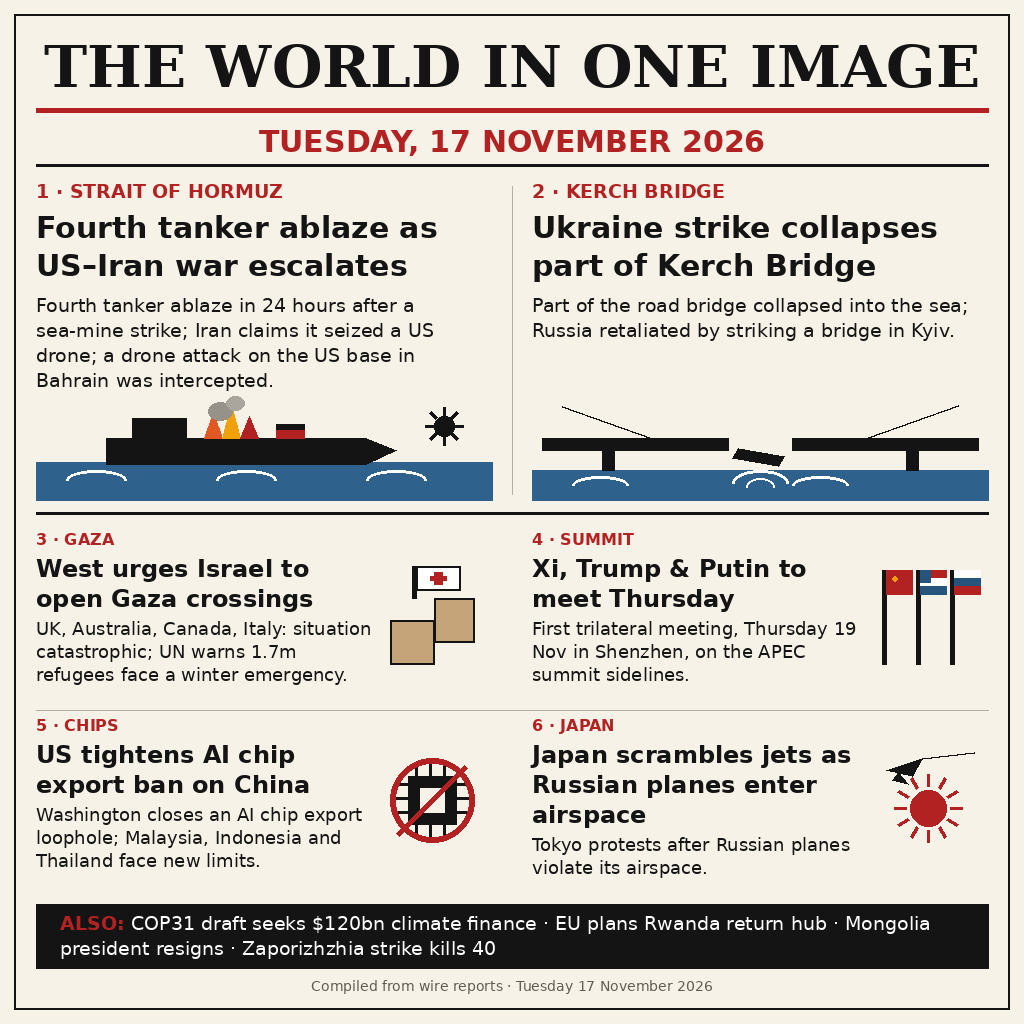
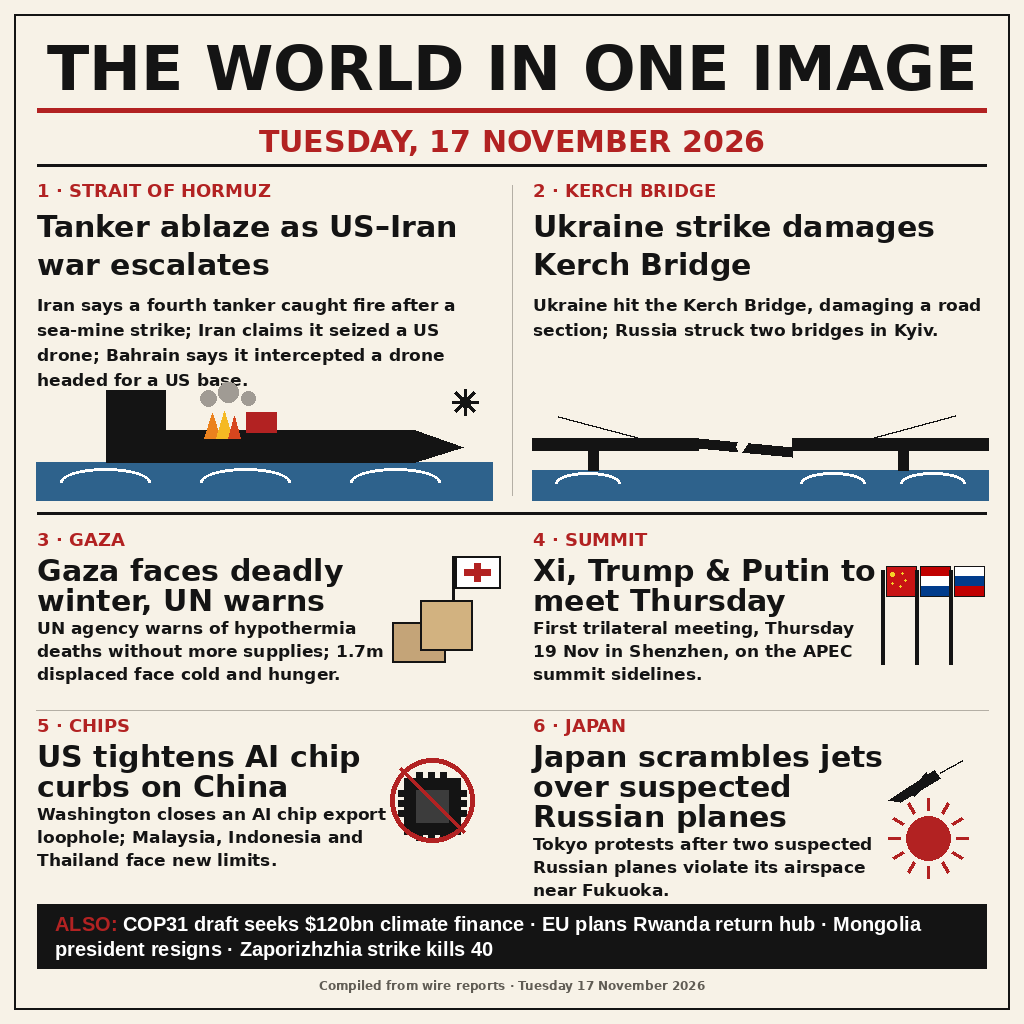
Revise entry image v2: fact-checked wording (Hormuz/Kerch/Gaza/Japan/Chips)

diff --git a/README.md b/README.md
@@ -11,12 +11,12 @@ bundled front-page image `entry.png` to the output directory. The image is a
 newspaper front page — "THE WORLD IN ONE IMAGE", Tuesday, 17 November 2026 —
 summing up the day's world news in six stories plus an "ALSO" strip:
 
-1. **Strait of Hormuz** — fourth tanker ablaze as the US–Iran war escalates
-2. **Kerch Bridge** — Ukraine strike collapses part of the bridge
-3. **Gaza** — the West urges Israel to open Gaza crossings
+1. **Strait of Hormuz** — tanker ablaze as the US–Iran war escalates; Iran says a fourth tanker caught fire after a sea-mine strike and claims it seized a US drone; Bahrain says it intercepted a drone headed for a US base
+2. **Kerch Bridge** — Ukraine strike damages the bridge; Ukraine hit the bridge, damaging a road section, and Russia struck two bridges in Kyiv
+3. **Gaza** — Gaza faces a deadly winter, UN warns of hypothermia deaths; 1.7m displaced face cold and hunger
 4. **Summit** — Xi, Trump & Putin to meet Thursday in Shenzhen
-5. **Chips** — US tightens the AI chip export ban on China
-6. **Japan** — jets scrambled as Russian planes enter its airspace
+5. **Chips** — US tightens the AI chip curbs on China
+6. **Japan** — jets scrambled over suspected Russian planes; Tokyo protests after two suspected Russian planes violated its airspace near Fukuoka
 
 The image (1024×1024 PNG) was drawn with Python/PIL from flat geometric
 shapes; the program is deterministic — every run writes the exact same bytes.
